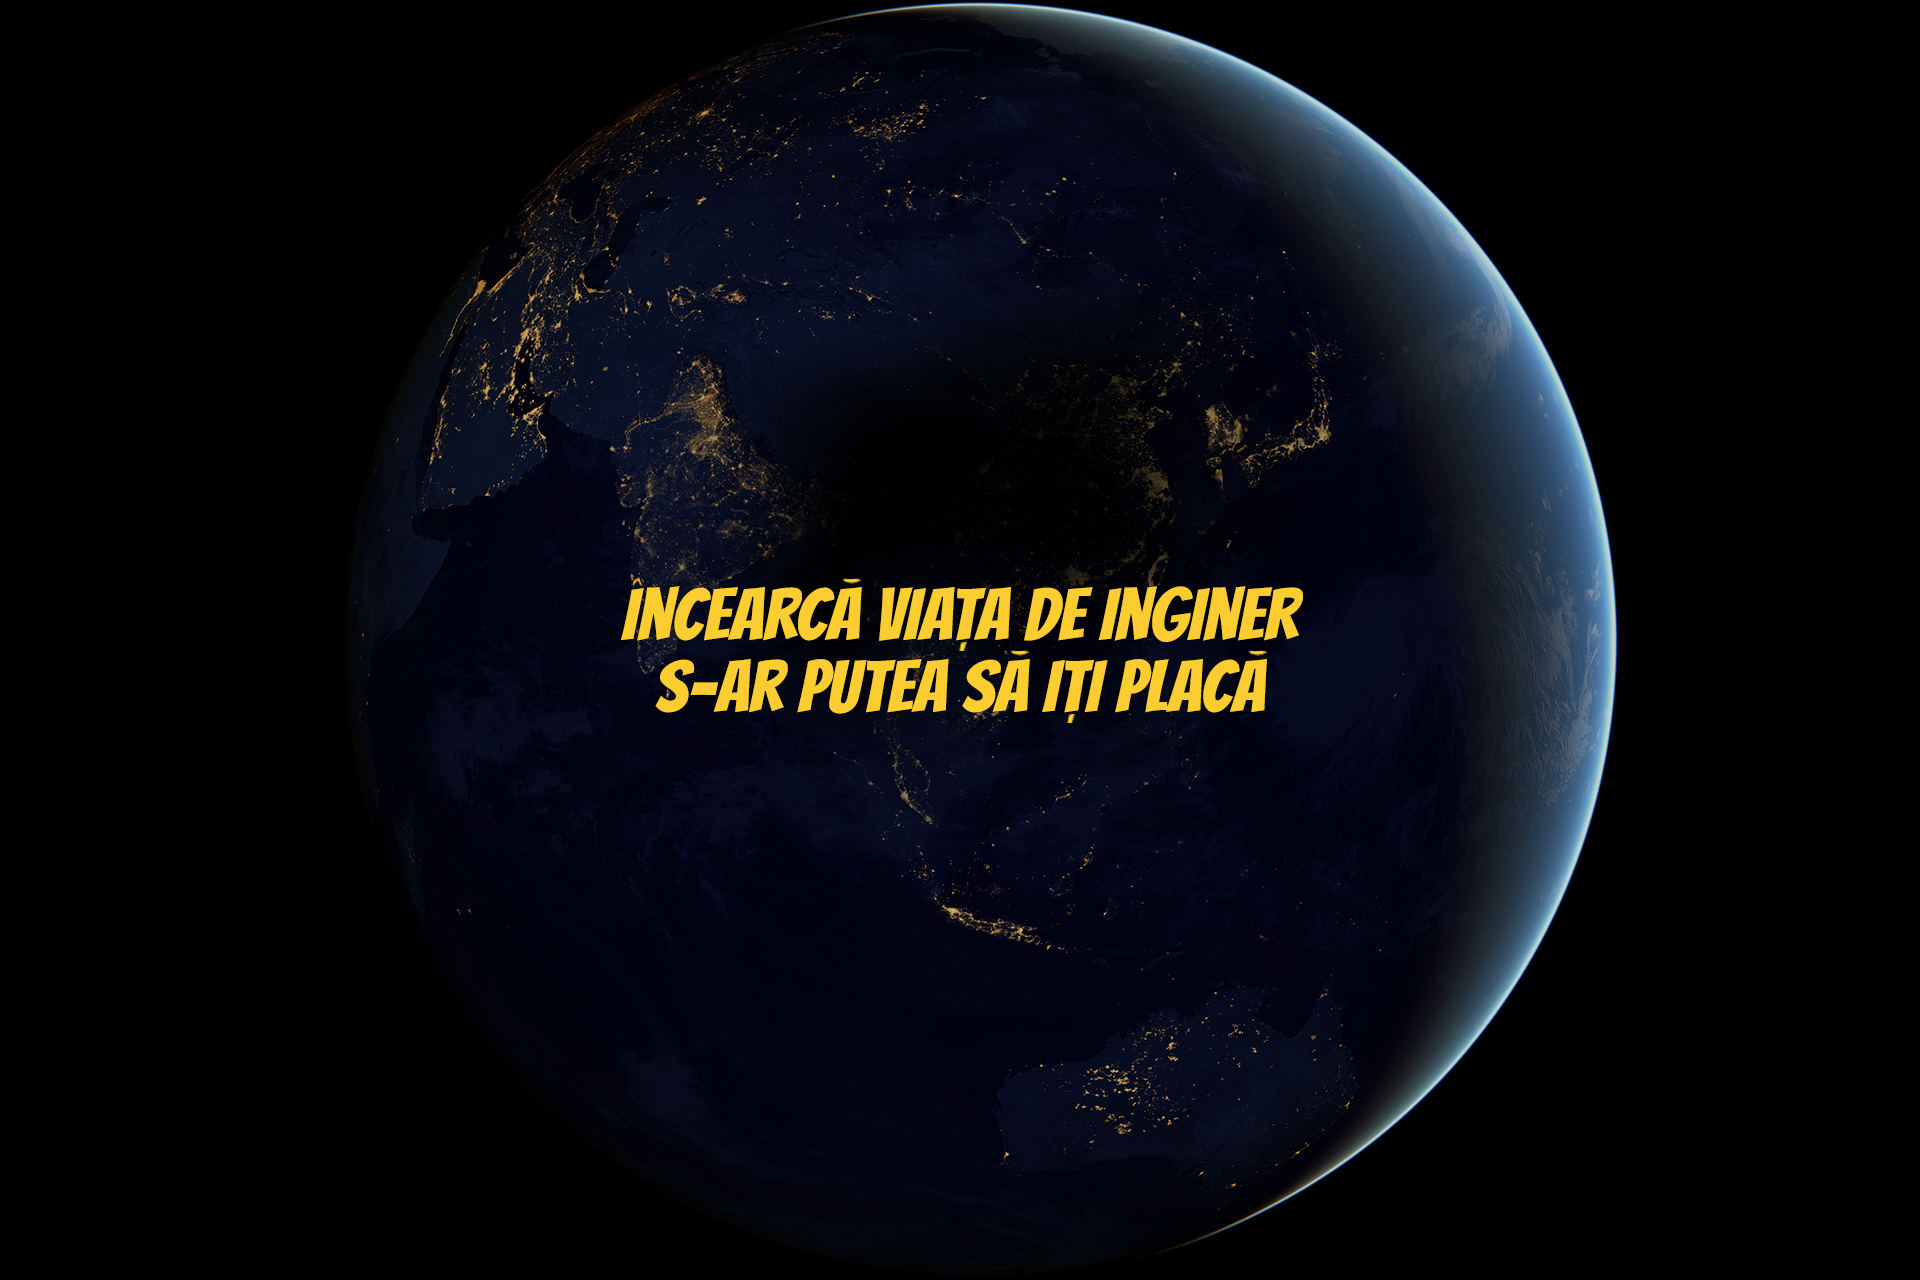
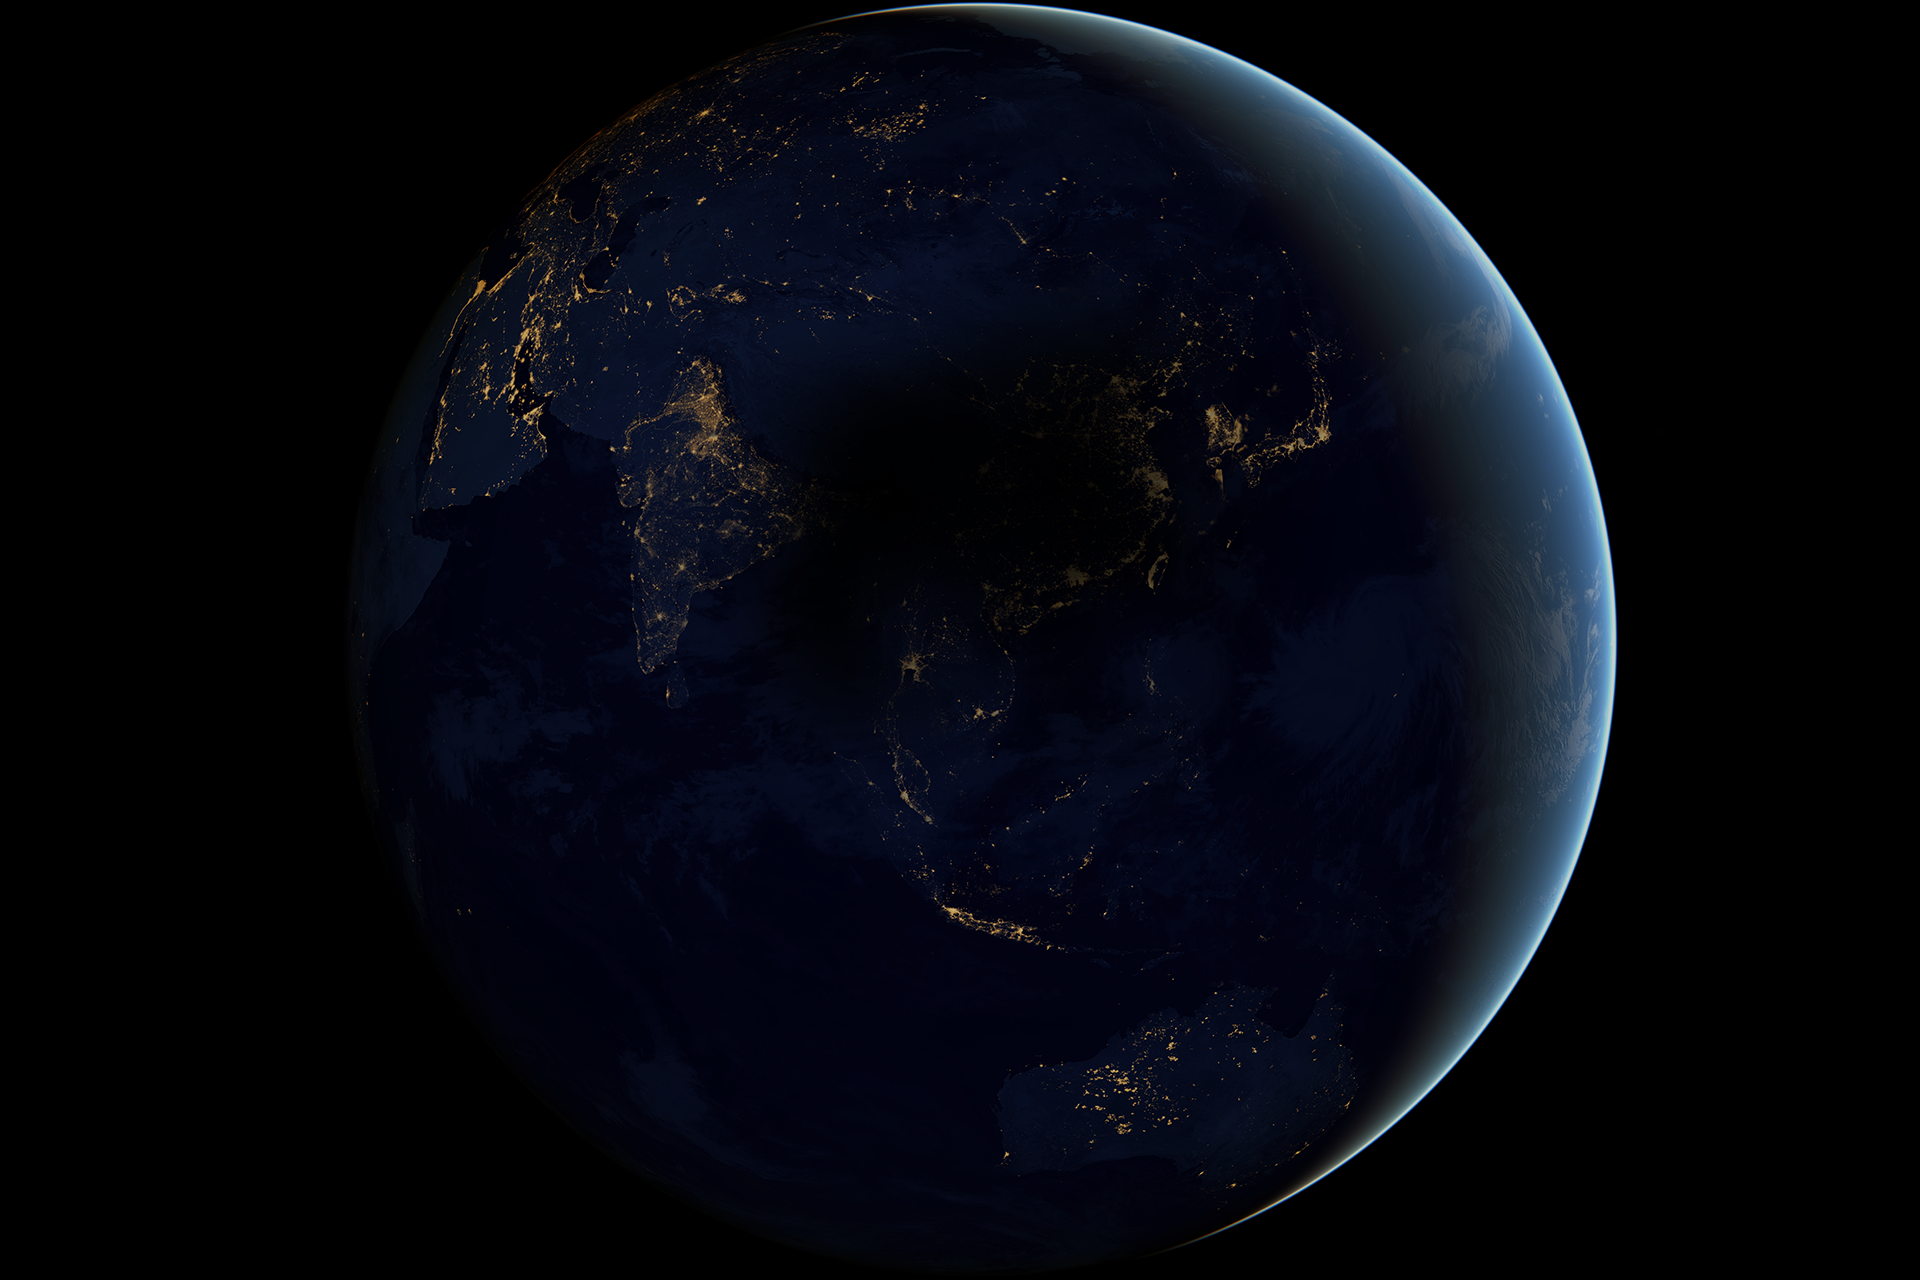
Doru's improvments

Changed region(s): [[0.3125, 0.4375, 0.6875, 0.5625]]

diff --git a/index.html b/index.html
@@ -67,9 +67,8 @@
 
      <!-- HOME -->
      <section id="home" data-stellar-background-ratio="0.5">
-          <div class="container">
-               <div class="row">
-               </div>
+          <div id="home-cta">
+               <img src="./images/hero-text.png">
           </div>
      </section>
 
@@ -81,70 +80,17 @@
 
                     <div class="col-md-12 col-sm-12">
                          <div class="section-title">
-                              <h1>What you get</h1>
+                              <h1>Despre noi</h1>
                          </div>
                     </div>
 
                     <div class="col-md-6 col-sm-6">
-                         <ul class="nav nav-tabs" role="tablist">
-                              <li class="active"><a href="#tab01" aria-controls="tab01" role="tab"
-                                        data-toggle="tab">Responsive</a></li>
-
-                              <li><a href="#tab02" aria-controls="tab02" role="tab" data-toggle="tab">Mobile</a></li>
-
-                              <li><a href="#tab03" aria-controls="tab03" role="tab" data-toggle="tab">Support</a></li>
-                         </ul>
-
-                         <div class="tab-content">
-                              <div class="tab-pane active" id="tab01" role="tabpanel">
-                                   <div class="tab-pane-item">
-                                        <h2>Minimal Design</h2>
-                                        <p>Nam feugiat a ante sollicitudin luctus. Quisque eget placerat massa. Ut quis
-                                             ligula ornare, pellentesque velit eget, vestibulum est. Donec pretium
-                                             tristique elit eget sodales. Pellentesque posuere.</p>
-                                   </div>
-                                   <div class="tab-pane-item">
-                                        <h2>Easy to use</h2>
-                                        <p>Aliquam massa massa, consectetur non mattis fringilla, sodales ac turpis.
-                                             Morbi ac felis sagittis, faucibus mauris vitae, placerat mauris.</p>
-                                   </div>
-                              </div>
-
-
-                              <div class="tab-pane" id="tab02" role="tabpanel">
-                                   <div class="tab-pane-item">
-                                        <h2>Compatible Browsers</h2>
-                                        <p>Nam maximus elit a metus luctus, a faucibus magna mattis. Ut malesuada
-                                             viverra iaculis. Nunc euismod sit amet neque a tincidunt.</p>
-                                   </div>
-                                   <div class="tab-pane-item">
-                                        <h2>User Friendly</h2>
-                                        <p>Maecenas maximus velit lorem, quis pharetra turpis fringilla id. Vestibulum
-                                             tempor facilisis efficitur. Sed nec nisi sit amet nibh pellentesque
-                                             elementum.</p>
-                                   </div>
-                                   <div class="tab-pane-item">
-                                        <h2>HTML5 & CSS3</h2>
-                                        <p>In viverra ipsum ornare sapien rhoncus ullamcorper. Vivamus vitae risus ac mi
-                                             vehicula sagittis. Nulla dictum magna sit amet pharetra aliquam.</p>
-                                   </div>
-                              </div>
-
-                              <div class="tab-pane" id="tab03" role="tabpanel">
-                                   <div class="tab-pane-item">
-                                        <h2>Quick Support</h2>
-                                        <p>Mauris rutrum est at fringilla pulvinar. Nam ligula urna, lobortis non
-                                             scelerisque vel, molestie eu massa. Nullam mattis elit at tortor accumsan.
-                                        </p>
-                                   </div>
-                                   <div class="tab-pane-item">
-                                        <h2>Managed Stuffs</h2>
-                                        <p>Quisque ullamcorper sem quis sapien cursus efficitur. Sed id sodales ipsum.
-                                             Morbi eleifend tempus erat sit amet vehicula. Nulla at posuere tellus, non
-                                             mattis erat. Nulla id massa gravida.</p>
-                                   </div>
-                              </div>
-                         </div>
+                         <p>Proiectul SkipToTheFuture, este un proiect care își propune să le ofere elevilor din Sibiu, șansa de a vedea care este procesul de dezvoltare a soluțiilor software și hardware din perspectiva unui inginer.
+                              Participanții vor afla aceste lucruri de la niște oameni care și-au dedicat timpul în realizarea unei cariere în acest domeniu. Dorința noastră este de a le arăta un posibil viitor; a ceea ce vor face dacă aleg să urmeze această carieră.
+                              Proiectul se adresează atât celor nehotărâți, cât și celor care sunt curioși referitor la ceea ce ar însemna o astfel de meserie.
+                              În prima fază, elevii vor avea ocazia să afle mai multe informaţii despre diferite companii implicate în acest proiect. Acestea îşi vor prezenta firma şi vor fi acolo pentru a lămuri toate neclarităţile într-o sesiune de Q&A (întrebări și răspunsuri).
+                              În faza a doua, în funcţie de compania aleasă, elevii vor avea şansa să participe la dezvoltarea unui proiect aflat în producţie.
+                              Toate aceste etape, vor avea ca scop final, să-i ajute pe elevii să găsească un răspuns mai bun la marea întrebare: “Ce facultate ar trebui să urmez?”</p>
 
                     </div>
 
@@ -162,7 +108,7 @@
      <!-- ABOUT -->
      <section id="about" data-stellar-background-ratio="0.5">
           <div class="container">
-               <div class="row">
+               <div class="row companies">
 
                     <div class="col-md-offset-3 col-md-6 col-sm-12">
                          <div class="section-title">
@@ -184,10 +130,11 @@
                     <a target="_blank" href="https://www.continental.com/ro-ro">
                          <div class="col-md-4 col-sm-4">
                               <div class="team-thumb">
-                                   <div class="team-info team-thumb-down">
+                                   <img src="images/logo-conti-web.png" class="img-responsive" alt="Continental">
+
+                                   <div class="team-info team-thumb-up">
                                         <p>Continental dezvoltă tehnologii și servicii de pionierat pentru mobilitatea durabilă și conectată a oamenilor și a bunurilor lor</p>
                                    </div>
-                                   <img src="images/logo-conti-web.png" class="img-responsive" alt="Continental">
                               </div>
                          </div>
                     </a>
@@ -213,19 +160,14 @@
      <section id="testimonial" data-stellar-background-ratio="0.5">
           <div class="container">
                <div class="row">
-
-                    <div class="col-md-6 col-sm-12">
-                         <div class="testimonial-image"></div>
-                    </div>
-
-                    <div class="col-md-6 col-sm-12">
+                    <div class="col-md-12 col-sm-12">
                          <div class="testimonial-info">
 
                               <div class="section-title">
                                    <h1>Testimonials</h1>
                               </div>
 
-                              <div class="owl-carousel owl-theme">
+                              <div class="owl-carousel owl-t     me">
                                    <div class="item">
                                         <h3>A fost o experiență foarte placută. Chiar lucrez în domeniu după 5 ani. Dacă ar fii să dau un feedback, aș zice că mi-a plăcut mult mediul de lucru și oamenii. 
                                              Chiar aș face internshipul mai lung pentru a învăța mai multe. Also la Skip To The Future e prima oară când am auzit de metodologii agile.
@@ -270,11 +212,11 @@
 
                     <div class="col-md-12 col-sm-12">
                          <div class="section-title">
-                              <h1>Choose any plan</h1>
+                              <h1>Inregistreaza-te</h1>
                          </div>
                     </div>
 
-                    <div class="col-md-4 col-sm-6">
+                    <div class="col-md-6 col-sm-6">
                          <div class="pricing-thumb">
                               <div class="pricing-title">
                                    <h2>Student</h2>
@@ -291,27 +233,8 @@
                               </div>
                          </div>
                     </div>
-
-                    <div class="col-md-4 col-sm-6">
-                         <div class="pricing-thumb">
-                              <div class="pricing-title">
-                                   <h2>Business</h2>
-                              </div>
-                              <div class="pricing-info">
-                                   <p>50 Responsive Designs</p>
-                                   <p>30 Dashboards</p>
-                                   <p>2 TB Storage</p>
-                                   <p>12 TB Bandwidth</p>
-                                   <p>15-minute Support</p>
-                              </div>
-                              <div class="pricing-bottom">
-                                   <span class="pricing-dollar">$350/mo</span>
-                                   <a href="#" class="section-btn pricing-btn">Register now</a>
-                              </div>
-                         </div>
-                    </div>
-
-                    <div class="col-md-4 col-sm-6">
+          
+                    <div class="col-md-6 col-sm-6">
                          <div class="pricing-thumb">
                               <div class="pricing-title">
                                    <h2>Professional</h2>
@@ -324,7 +247,6 @@
                                    <p>1-minute Support</p>
                               </div>
                               <div class="pricing-bottom">
-                                   <span class="pricing-dollar">$550/mo</span>
                                    <a href="#" class="section-btn pricing-btn">Register now</a>
                               </div>
                          </div>
@@ -373,14 +295,13 @@
 
                     <div class="copyright-text col-md-12 col-sm-12">
                          <div class="col-md-6 col-sm-6">
-                              <p>Contact: support@skiptothefuture.com</p>
+                              <p>Email:  support@skiptothefuture.com</p>
                          </div>
 
                          <div class="col-md-6 col-sm-6">
                               <ul class="social-icon">
                                    <li><a target="_blank" href="https://www.facebook.com/skiptothefuture/"
                                              class="fa fa-facebook-square" attr="facebook icon"></a></li>
-                                   <li><a href="#" class="fa fa-twitter"></a></li>
                                    <li><a target="_blank" href="https://www.instagram.com/skip.to.the.future/"
                                              class="fa fa-instagram"></a></li>
                               </ul>

diff --git a/css/tooplate-style.css b/css/tooplate-style.css
@@ -127,7 +127,7 @@ http://www.tooplate.com/view/2106-soft-landing
   }
 
   .online-form button {
-    background: #29ca8e;
+    background: #ffffff;
     border: 0;
     color: #ffffff;
     position: absolute;
@@ -268,7 +268,7 @@ http://www.tooplate.com/view/2106-soft-landing
 
   .custom-navbar .nav li a:hover {
     background: transparent;
-    color: #29ca8e;
+    color: #fff;
   }
 
   .custom-navbar .navbar-nav > li > a:hover,
@@ -278,7 +278,7 @@ http://www.tooplate.com/view/2106-soft-landing
 
   .custom-navbar .nav li.active > a {
     background-color: transparent;
-    color: #29ca8e;
+    color: #fff;
   }
 
   .custom-navbar .navbar-toggle {
@@ -351,6 +351,17 @@ http://www.tooplate.com/view/2106-soft-landing
     position: relative;
     padding-top: 12em;
     text-align: center;
+  }
+
+  #home-cta {
+    height: 100%;
+    width: 100%;
+    padding: 10px;
+  }
+
+  #home-cta img {
+    width: 100%;
+    max-width: 500px;
   }
 
   #home h1 {
@@ -442,6 +453,10 @@ http://www.tooplate.com/view/2106-soft-landing
     padding: 0;
   }
 
+  .companies {
+    background: #FFFBE6;
+  }
+
   .team-thumb {
     background: #ffffff;
     position: relative;
@@ -481,6 +496,7 @@ http://www.tooplate.com/view/2106-soft-landing
   .team-info {
     position: relative;
     padding: 40px;
+    background-color: #FFFBE6;
   }
 
   .team-info h2 {margin: 0;}
@@ -529,7 +545,6 @@ http://www.tooplate.com/view/2106-soft-landing
   .testimonial-info {
     background: #202020;
     padding: 60px;
-    height: 65vh;
   }
 
   .testimonial-info h3 {
@@ -576,7 +591,7 @@ http://www.tooplate.com/view/2106-soft-landing
   }
 
   #pricing .col-md-4 {
-    margin: 0;
+    margin-right: 20px;
     padding: 0;
   }
 
@@ -585,12 +600,13 @@ http://www.tooplate.com/view/2106-soft-landing
   }
 
   .pricing-thumb {
-    background: #ffffff;
+    background:#fffbe6;
     border-right: 2px solid #f0f0f0;
     padding: 20px 40px;
   }
 
   .pricing-title {
+    text-align: center;
     padding-bottom: 5px;
   }
 
@@ -600,8 +616,13 @@ http://www.tooplate.com/view/2106-soft-landing
   }
 
   .pricing-info,
-  .pricing-bottom {
+  .pricing-bottom {  
     padding: 20px 0;
+  }
+
+  .pricing-bottom {
+    display: flex;
+    justify-content: center;
   }
 
   .pricing-info p {
@@ -617,10 +638,8 @@ http://www.tooplate.com/view/2106-soft-landing
   }
 
   .pricing-btn {
-    position: relative;
     top: 15px;
     right: 15px;
-    display: inline-block;
   }
 
 
@@ -659,7 +678,7 @@ http://www.tooplate.com/view/2106-soft-landing
   }
 
   #contact-form input[type='submit']:hover {
-    background: #29ca8e;
+    background: #fff;
     color: #ffffff;
   }
   
@@ -697,18 +716,18 @@ http://www.tooplate.com/view/2106-soft-landing
   .social-icon li a {
     border-radius: 50px;
     color: #202020;
-    font-size: 15px;
+    font-size: 35px;
     width: 35px;
     height: 35px;
     line-height: 35px;
     text-decoration: none;
     text-align: center;
     position: relative;
-    margin: 5px 5px 5px 0;
+    margin: 5px 20px 20px 0;
   }
 
   .social-icon li a:hover {
-    background: #536976;
+    background: #f5c54e;
     color: #ffffff;
   }
 
@@ -816,8 +835,7 @@ http://www.tooplate.com/view/2106-soft-landing
       border-bottom: 15px solid #ffffff;
     }
 
-    .testimonial-image,
-    .testimonial-info {
+    .testimonial-image {
       height: 85vh;
     }
 
@@ -844,8 +862,7 @@ http://www.tooplate.com/view/2106-soft-landing
       right: 0;
     }
 
-    .testimonial-image,
-    .testimonial-info {
+    .testimonial-image {
       height: 65vh;
     }
   }
